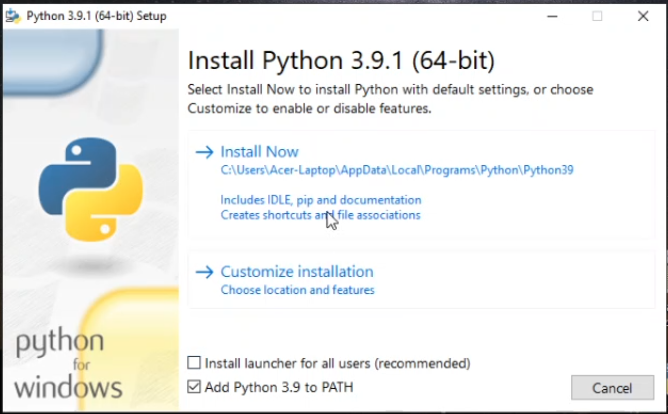
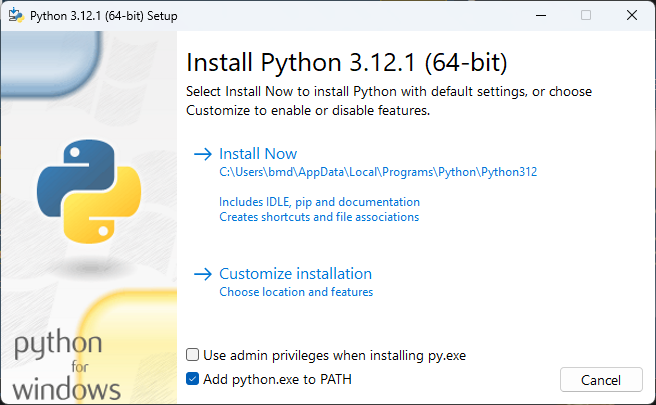
Update new screenshot for installing Python

diff --git a/README.md b/README.md
@@ -106,7 +106,7 @@ On eBay, Shopee and similar online shopping platforms, you'll see hundreds of li
 - Brand-new KaiOS phones, even off the shelf, don't cost less than 2/3 of their retail prices.
 - Do keep in mind that HMD has never sold any of their devices in their KaiOS lineup 2G-only. All KaiOS phones from HMD are equipped with 4G LTE, Wi-Fi and Bluetooth. KaiOS devices are required to have 3G at minimum.
 - If the seller only uploaded generic photos showing the phone's exterior, ask for additional photos of the box that it came in. A genuine phone's box would show all its features on fine print, as well as an information sticker that indicates its model number (which matches the device specification table above) and targeted regional market.
-  - Check the printed model number on the packaging box with that on another information sticker under the back of the phone, and when dialing `*#0000#` in the operating system.
+	- Check the printed model number on the packaging box with that on another information sticker under the back of the phone, and when dialing `*#0000#` in the operating system.
 - Look for signs of the phone running KaiOS and not MRE: KaiOS uses the distinct [Open Sans] UI font and vibrant, properly aligned UI elements. KaiStore and related services should be available at all time. It does not natively run Opera Mini 4.4 or other Java/MRE apps.
 
 ### About Kosher phones
@@ -122,7 +122,7 @@ Kosher is indeed a great way to make your phone truly basic, but HMD already off
 *Photo provided by nuxx on r/KaiOS Discord server in October 2021.*
 
 <p align="center">
-  <img alt="A Kosher-customized Nokia 8000 4G with no Browser, KaiStore or third-party apps shown in 3-by-3 grid of apps. Center D-Pad key is engraved with a Hebrew symbol indicating Kosher phone" src="img/kosher-sparkler.jpg" width="400">
+	<img alt="A Kosher-customized Nokia 8000 4G with no Browser, KaiStore or third-party apps shown in 3-by-3 grid of apps. Center D-Pad key is engraved with a Hebrew symbol indicating Kosher phone" src="img/kosher-sparkler.jpg" width="400">
 </p>
 
 ## Differences between US and international variants
@@ -137,24 +137,24 @@ Don't buy the US variant of 6300 4G unless you know what you're doing. Seek the 
 - You can capture a screenshot by pressing both * and # keys at the same time.
 - You don’t need a KaiOS account to use your phone or download apps from KaiStore, but you can create one in Settings, Accounts if you want to use Anti-Theft features.
 - To stop getting ad notifications from KaiStore, go to *Settings → Personalization → Notices → App notices → Store* and turn off *Allow Notices*. Then go to *Store → Options → Settings & Account → Show rich content* and select *Do not show*.
-    - To block KaiAds altogether, add `ssp.kaiads.com` in your Wi-Fi routers' blacklist or [the system's `hosts` file]. Be aware that this might prevent you from installing apps from KaiStore like WhatsApp.
+		- To block KaiAds altogether, add `ssp.kaiads.com` in your Wi-Fi routers' blacklist or [the system's `hosts` file]. Be aware that this might prevent you from installing apps from KaiStore like WhatsApp.
 - Speed Dial lets you call a contact quickly by pressing and holding a number key from 2 to 9 on the homescreen. To assign a contact to a number key, press and hold an empty key on the homescreen or go to *Contacts → Options → Settings → Set Speed Dial Contacts*. You can also change your voicemail number in the same menu.
-    - *ICE (In Case of Emergency) Contacts, however, is an useless feature on this phone, since there's basically no way to activate it. On the 2720 Flip, you could hold or double-press the side button to trigger SOS Call.*
+		- *ICE (In Case of Emergency) Contacts, however, is an useless feature on this phone, since there's basically no way to activate it. On the 2720 Flip, you could hold or double-press the side button to trigger SOS Call.*
 - You can use a GIF as your homescreen wallpaper, but it will drain your battery faster.
 - If you prefer a different layout than the default 3-by-3 grid view, you can choose *Options → List view/Single view* and rearrange the items as you like.
 - This phone has a hidden screen reader feature that might not work well with some third-party apps that have unlabeled buttons. To turn on the hidden Readout feature, open Browser, go to cyan-2048.github.io/kaios_scripts, use D-Pad to move the cursor and select *Screen Reader*.
 - There's also a hidden call recording feature that has been made available on KaiOS 2.5.2 and later. To toggle, connect the phone to a WebIDE session (see [Sideloading and debugging third-party applications]), then open *Device Settings* in the right sidebar, search for `callrecording.mode` and set it to either `on` (press D-Pad Left to record), `auto` or `off`.
-    - Alternatively you can sideload [CrossTweak] and press 3 to toggle call recording.
+		- Alternatively you can sideload [CrossTweak] and press 3 to toggle call recording.
 
 ## Known issues
 - The multiple clips holding the back panel can be stressed and quickly broken. Speaker is decent, but muffled on strong bass. *For tactile responses on keypad presses, turn on Keypad vibration under Settings → Device → Accessibility.*
-    - *Note that phone shutting itself down or not receiving any charges often come down to loose or dirty battery connectors or charging port and not software problem. Happened to me once, got the phone checked and repaired for less than $10.*
+		- *Note that phone shutting itself down or not receiving any charges often come down to loose or dirty battery connectors or charging port and not software problem. Happened to me once, got the phone checked and repaired for less than $10.*
 - **[MAJOR]** Battery can drain heavily (from 5–7 days of 4G standby to 18 hours, or 2 hours in active usage) if you leave Wi-Fi or mobile data on at all time, e.g. to be immediately notified of incoming WhatsApp messages. It's better to turn them off if you don't plan to use Internet connection, and only turn them on periodically to check for notifications.
 - **[MAJOR]** Keypad frequently registering multiple or no keystrokes instead of a single-press, because of keypad design and keypress timeout interval being too short in `keyboard.gaiamobile.org`. [BananaHackers' guide on fixing the keypad speed] may help
 - **[MAJOR]** A-GPS failing to lock your current position on 4G LTE, possibly due to interferences with TDD bands ⇒ workaround: change your A-GPS APN settings under *Settings → Mobile network & data → APN settings* or switch to 2G/3G for the phone to retrieve GPS information properly (*Settings → Mobile network & data → Carrier - SIMx → Network type → 3G/2G*). Might be major issue for those in the US where 2G/3G has been shut down.
 - **[MAJOR]** B2G takes up large chunk of memory, and RAM optimizations leading to the phone joining Doze deep sleep immediately and aggressive task killing after a few minutes, making opening or exiting apps horribly slow, and notifications—including incoming WhatsApp calls—being delayed.
-    - Wi-Fi hotspot feature will stop transmitting data packets with your other devices when you put the phone into sleep. *As a workaround, you can have [a playlist of silent MP3s played in background] to prevent the phone from Doze sleep.*
-    - *This can be permanently mitigated by modifying scripts in /boot to disable the Low Memory Killer module, which I'll mention in [Manual patching with Android Image Kitchen] below.*
+		- Wi-Fi hotspot feature will stop transmitting data packets with your other devices when you put the phone into sleep. *As a workaround, you can have [a playlist of silent MP3s played in background] to prevent the phone from Doze sleep.*
+		- *This can be permanently mitigated by modifying scripts in /boot to disable the Low Memory Killer module, which I'll mention in [Manual patching with Android Image Kitchen] below.*
 - On certain network providers where this phone isn't yet certified, such as Jio Reliance in India, you may [temporarily mute yourself on phone calls with VoLTE/VoWiFi enabled]. Putting yourself on hold and off does ease the problem.
 - Normally, you can wake up the phone from sleep by either pressing the Power, Volume up or Volume down buttons, regardless of whether keyguard is in place or not. On this phone there are no volume buttons, but some of their functions, such as triggering boot modes or waking the phone up, are mapped to * and # keys respectively. This can be problematic as those keys are located close to the bottom edge of the phone and can be randomly mashed if you store the phone in your front pockets, leading to [unintended screenshots].
 - If you forgot your lockscreen passcode (not SIM or Anti-Theft ones), you can [bypass it] by holding down the top Power button, then select *Memory Cleaner → Deep Memory Cleaning*.
@@ -162,31 +162,31 @@ Don't buy the US variant of 6300 4G unless you know what you're doing. Seek the 
 
 ### KaiOS-specific
 - If you're setting up the phone for the first time with no SIM card, pre-installed apps such as WhatsApp, Facebook and Google apps may not appear in the app list or in KaiStore. After popping in a SIM, those apps will show up as normal.
-    - *KaiStore will show up in all circumstances, regardless of whether there's a SIM card inserted or not.*
+		- *KaiStore will show up in all circumstances, regardless of whether there's a SIM card inserted or not.*
 - This phone runs KaiOS 2.5, which itself is based on Gecko 48 from 2016, meaning without optimizations and new web technologies, some websites like Instagram and Uber just fall apart and the overall performance is unbearable.
-    - No built-in Widevine DRM decoders, which means the phone is NOT capable of playing DRM-protected content from e.g. Spotify
+		- No built-in Widevine DRM decoders, which means the phone is NOT capable of playing DRM-protected content from e.g. Spotify
 - **[MAJOR]** Some built-in apps, such as Call logs, Contacts or Music, are written in a way that is performance-intensive and not optimized for the phone, causing slow rendering and system lags if you store a large number of contacts (technically infinite but 100 recommended), call logs (max 40), music files or other items in a list.
-    - *Performance issues has been addressed on later versions, for now you should opt for alternatives such as [arma7x's K-Music] in KaiStore if possible.*
+		- *Performance issues has been addressed on later versions, for now you should opt for alternatives such as [arma7x's K-Music] in KaiStore if possible.*
 - **[MAJOR]** Sending text messages don't automatically convert to MMS in group chats. You'll have to add a message subject or file attachment before sending to manually do so, otherwise your message will be sent separately to each individual in the thread. Receiving works flawlessly. *Group messaging over MMS has been properly implemented as a feature on later versions.*
 - **[MAJOR]** Alarms can be delayed, unable to go off or go off unexpectedly if the Clock app is killed. Before going to sleep, make sure to open the Clock app and lock the phone without pressing the End call key or closing the app.
 - Predictive typing mode doesn't last between inputs, meaning if you switch between input boxes, it'll return to the normal T9 mode.
 - Photos larger than 6000-by-4000 in size aren't viewable in the Gallery app due to restrictions in place preventing memory constraints. As a workaround, you can download [FabianOvrWrt's Explorer] and [mochaSoft Aps' Photo Zoom] from KaiStore to view them instead.
 - Built-in File Manager app doesn't show folders in the internal storage other than pre-configured ones (audio, music, photos, books, videos, DCIM, downloads, others). This is [hardcoded within its code] as a measure to hide system files (such as DIC files for storing added T9 words), but can be easily misused. *To fully browse the internal storage, use third-party file managers from KaiStore, or turn on Settings → Storage → USB Storage and connect your phone to a computer.*
 - Built-in email, calendar and contact syncing function with Google account may completely fail at times. Use IMAP and import contacts instead.
-    - In December 2021, in order to [replace the expired Let's Encrypt root certificate DST Root CA X3 with the newer ISRG Root X1], KaiOS Technologies issued a Service Update over KaiStore to all active KaiOS devices. This caused the Contacts app on various phones, notably HMD/Nokia KaiOS phones and Alcatel MyFlip 2, to [freeze on open]. In some reported cases, apps such as E-Mail, Calendar and Settings failed to work as well, and Google accounts set up in the Settings app couldn't be removed. This was later classified as a bug of Google account syncing feature, and affected people were advised to wipe their devices as a fix.
-    - T9 search in Contacts app is missing. For those missing the feature, there's a port called [FastContact] by Luxferre that you can sideload to use as an alternative.
-    - E-Mail app lacks many crucial enterprise features, such as OAuth2 secure sign-in.
-    - Speaking of built-in Calendar app, if you manage to opt for syncing your Google account with the phone, only the calendar *with your email address as its name* will sync.
+		- In December 2021, in order to [replace the expired Let's Encrypt root certificate DST Root CA X3 with the newer ISRG Root X1], KaiOS Technologies issued a Service Update over KaiStore to all active KaiOS devices. This caused the Contacts app on various phones, notably HMD/Nokia KaiOS phones and Alcatel MyFlip 2, to [freeze on open]. In some reported cases, apps such as E-Mail, Calendar and Settings failed to work as well, and Google accounts set up in the Settings app couldn't be removed. This was later classified as a bug of Google account syncing feature, and affected people were advised to wipe their devices as a fix.
+		- T9 search in Contacts app is missing. For those missing the feature, there's a port called [FastContact] by Luxferre that you can sideload to use as an alternative.
+		- E-Mail app lacks many crucial enterprise features, such as OAuth2 secure sign-in.
+		- Speaking of built-in Calendar app, if you manage to opt for syncing your Google account with the phone, only the calendar *with your email address as its name* will sync.
 - You cannot change message notification tone or alarm tone on the phone outside the defaults provided. This is because both are not managed by the system, but by the Messages and Clock app themselves.
-    - To change them, you'll have to use ADB to pull `sms.gaiamobile.org` and `clock.gaiamobile.org` from `/system/b2g/webapps`, extract, edit the audio files and repackage the apps, then push them back under `/data/local/webapps` and edit the `basePath` in `/data/local/webapps/webapps.json` to reflect the change (see [BananaHackers' guide] for instructions)
+		- To change them, you'll have to use ADB to pull `sms.gaiamobile.org` and `clock.gaiamobile.org` from `/system/b2g/webapps`, extract, edit the audio files and repackage the apps, then push them back under `/data/local/webapps` and edit the `basePath` in `/data/local/webapps/webapps.json` to reflect the change (see [BananaHackers' guide] for instructions)
 - D-Pad shortcuts and app shortcuts in the carousel menu (when you press Left on the home screen) are not customizable. *The former has been addressed on later versions*, but to change them on this phone you'll have to edit `launcher.gaiamobile.org`.
 
 ### WhatsApp-specific
 - (mostly 2720 Flip) Upon getting the confirmation code needed to set up WhatsApp, you may be indefinitely stuck at Connecting WhatsApp... regardless of whether you're on Wi-Fi/mobile data or had a SIM in. Some suggested that leftover pre-configuration files seem to have caused the issue and, in most cases, can be fixed with a factory reset.
-    - *[Temporarily putting your SIM in another phone to receive the code] may help as well.*
+		- *[Temporarily putting your SIM in another phone to receive the code] may help as well.*
 - 8MB download/5MB upload limit: This is to avoid 'out of memory' errors with the nature of WhatsApp's end-to-end encryption. All things sent through the app's servers—including photos and videos—are encrypted on device. Decrypt them bit-by-bit would use too much memory for KaiOS devices, having only as much as 512MB of RAM.
 - Pairing account with the WhatsApp Web interface or desktop applications is NOT possible. This is because KaiOS cannot hold background processes or handle battery life well enough to sync decryption keys and mirrors messages & calls from the phone.
-    - Note that you cannot sign into another device, pair with WhatsApp Web and then sign into WhatsApp on KaiOS. This will cause the decryption keys to be renewed and all other devices to be logged off automatically.
+		- Note that you cannot sign into another device, pair with WhatsApp Web and then sign into WhatsApp on KaiOS. This will cause the decryption keys to be renewed and all other devices to be logged off automatically.
 
 ## Secret codes
 *Tip: You can save these codes as contacts for quick dialing later. When the phone suggests a saved code, you'll have to press Call to activate the code's function.*
@@ -197,7 +197,7 @@ Don't buy the US variant of 6300 4G unless you know what you're doing. Seek the 
 - `*#33#` (call): Check the [Call barring] service status from carrier for blocking or whitelisting calls, whether incoming or outgoing, domestic or international. Requires a 4-digit passcode to use. To toggle, go to *Settings → Network & Connectivity → Calling → Call barring*.
 - `*#43#` (call): Check the [Call waiting] service status from carrier. To toggle, go to *Settings → Network & Connectivity → Calling → Call waiting*.
 - `*#*#372733#*#*`: Open KaiOS MMI Test, an internal tool to test hardware performance of a KaiOS device through an automatic routine or manually by hand, including LCD backlight, T9 keyboard, camera, LED flash, RTC, speaker, microphone, vibrator, 3.5mm audio jack, SIM trays, Wi-Fi, Bluetooth, NFC, microSD and microUSB slots etc.
-    - Throughout the manual speaker test, you'll hear some English and Chinese dialog from a female speaker, which transcribes to: *Hello. Please dial 110 for police, 119 for fire, 120 for ambulance, 122 for traffic accidents, and dial area code before 112 for six full obstacles.* [?]
+		- Throughout the manual speaker test, you'll hear some English and Chinese dialog from a female speaker, which transcribes to: *Hello. Please dial 110 for police, 119 for fire, 120 for ambulance, 122 for traffic accidents, and dial area code before 112 for six full obstacles.* [?]
 
 ### Codes that don't work
 Most of these codes requires `userdebug` or `eng` versions to work.
@@ -219,7 +219,7 @@ Most of these codes requires `userdebug` or `eng` versions to work.
 - **EDL mode**: With the device powered off, hold the top Power button and both the * and # keys, or type `adb reboot edl` when connected to a computer. Boots into a black screen, allows you to read and write partitions in low-level with proprietary Qualcomm tools. Remove the battery to exit.
 
 <details markdown="block">
-  <summary>What the heck is EDL mode?</summary>
+	<summary>What the heck is EDL mode?</summary>
 <hr style="font-family:monospace;">
 
 **Qualcomm Emergency Download mode**, commonly known as EDL mode, is a special engineering interface implemented on devices with Qualcomm chipsets. It lets you do special operations on the phone that only the device manufacturer can do, such as unlocking the bootloader, read and write firmwares on the phone's filesystem or recover from being a dead paperweight. Unlike bootloader or Fastboot mode, system files needed by the EDL mode resides on a separate 'primary bootloader' that aren't affected by software modifications.[^2]
@@ -236,7 +236,7 @@ EDL programmer for the international version of this phone (not TA-1324) can be 
 [As discovered by atipls on Discord], on the mainboard of the 6300 4G, there are 3 UART testing points: TX, RX and GND just above the SIM2 slot. Shorting TX and GND takes you to Fastboot and Linux terminal interface.
 
 <p align="center">
-  <img alt="Mainboard of a TA-1307 Nokia 6300 4G, with the red arrow pointing to three gold contacts in the middle of the board, those being the UART testpoints in the order of TX, RX and ground" src="img/testpoint.png">
+	<img alt="Mainboard of a TA-1307 Nokia 6300 4G, with the red arrow pointing to three gold contacts in the middle of the board, those being the UART testpoints in the order of TX, RX and ground" src="img/testpoint.png">
 </p>
 
 ## Sideloading and debugging third-party applications
@@ -264,12 +264,12 @@ The guide below is based on the main guide from BananaHackers website, but has b
 > [Murphy's Law] states, "Anything that can go wrong, will go wrong". It's a proverb from the late 1940s, and while it may not be as academically accurate and influential as [Newton's laws of motion], it's generally acknowledged in technology as a rule of thumb. Even if you do the best you can, things can unexpectedly go south, so it's always good to prepare for the worst.
 
 - To export your contacts from the built-in Contacts app, go to *Contacts → Options → Settings → Export contacts*. From there, choose to either save to a CSV file on your SD card, send through Bluetooth to other devices, or upload to Web services such as Google Contacts and Microsoft Outlook.
-    - You can also use third-party backup services and tools such as [PhoneCopy in KaiStore] or D3SXX's [kaios-backup] etc.
+		- You can also use third-party backup services and tools such as [PhoneCopy in KaiStore] or D3SXX's [kaios-backup] etc.
 - On debug-enabled devices, you can sideload `certified` apps such as D3SXX's [kaios-backup] or Fiachra1993's [kaios-sms-backup], which uses Firefox OS APIs to export your text messages to JSON or CSV files.
 - Built-in Calendar app allows syncing events through Google, ActiveSync or CalDAV accounts. If you only have a small number of events, you can migrate each of those to your online calendars. strukturart's [greg] also allows syncing events with Nextcloud.
 - Each entry in the Notes app can be shared over texts, Bluetooth or email.
 - On internal storage or SD card (whichever you chose under *Settings → Storage → Default media location*), captured photos and videos are stored under `DCIM`; whereas recorded voice files are stored under `audio`.
-    - To get your phone to show up on the computer as external storage, turn on *USB Storage* under *Settings
+		- To get your phone to show up on the computer as external storage, turn on *USB Storage* under *Settings
 
 For backing up application data (excluding WhatsApp chats), system preferences and partition images, see [Backup].
 
@@ -280,20 +280,20 @@ For backing up application data (excluding WhatsApp chats), system preferences a
 - EDL utility to read and write system partitions: [bkerler's edl.py v3.1] for 8000 4G/6300 4G, [andybalholm's edl] for 2720 Flip/800 Tough/Go Flip 3;
 - required for 6300 4G/8000 4G: [Gerda Recovery image file] ([backup]) for the Nokia 8110 4G, since the firehose loader above has a reading bug, we'll use this to access ADB from Recovery mode and get the boot partition from there;
 - Python and `pip` for `edl.py` to work (setup guide can be found for each OS below);
-    - Don't have an Internet connection? Download and install manually from PyPI: [pyusb], [pyserial], [keystone-engine], [capstone], [docopt]
+		- Don't have an Internet connection? Download and install manually from PyPI: [pyusb], [pyserial], [keystone-engine], [capstone], [docopt]
 - [Android Debug Bridge (ADB)] to read the boot image in Gerda Recovery (see [Sideloading and debugging/WebIDE])
 - Windows: Qualcomm driver to contact the phone in EDL mode (included in the `edl.py` package)
 - Windows: latest version of [Zadig] to configure `libusb-win32` driver; do NOT use the older version bundled as it has less chances of success
 - macOS: [Homebrew] to quickly set up Python, ADB, `libusb` and configure the environment for EDL tools (setup guide can be found below)
-    - *Python 2.7 bundled with macOS 10.8 to 12 is NOT recommended for following this guide.*
+		- *Python 2.7 bundled with macOS 10.8 to 12 is NOT recommended for following this guide.*
 - **If you're going the automatic boot partition patching and compilation via Docker route (only recommended for 5-6 year old computers):**
-    - [Git] to clone/download the repository of the patcher tool to your computer;
-    - Docker Compose to provide the environment for the patcher tool to work (included in [Docker Desktop])
-    - Windows: WSL2 with [Linux kernel update package] installed (to install WSL2, turn on Virtualization in BIOS, then open Command Prompt with administrative rights and type `wsl --install`)
+		- [Git] to clone/download the repository of the patcher tool to your computer;
+		- Docker Compose to provide the environment for the patcher tool to work (included in [Docker Desktop])
+		- Windows: WSL2 with [Linux kernel update package] installed (to install WSL2, turn on Virtualization in BIOS, then open Command Prompt with administrative rights and type `wsl --install`)
 - **If you're going the extracting and manual editing by hand route:**
-    - Android Image Kitchen v3.8 ([Windows], [macOS/Linux])
-    - on Windows 10 pre-1809: [Notepad++] to edit files while [preserving line endings]
-    - (optional) [Java Runtime Environment] to properly sign the boot image with AVBv1
+		- Android Image Kitchen v3.8 ([Windows], [macOS/Linux])
+		- on Windows 10 pre-1809: [Notepad++] to edit files while [preserving line endings]
+		- (optional) [Java Runtime Environment] to properly sign the boot image with AVBv1
 
 andybalholm's EDL cannot be used on 8000 4G and 6300 4G due to structural changes within GPT, which will result in an error `AttributeError: 'gpt' object has no attribute 'partentries'. Did you mean: 'num_part_entries'?`. **Do note that the command structures used between bkerler's and andybalholm's are different, which we'll mention below.**
 
@@ -314,8 +314,8 @@ sudo apt-get install python pip3
 sudo -H pip3 install pyusb pyserial capstone keystone-engine docopt
 ```
 3. Switch your phone to EDL mode and connect it to your computer. Either:
-  - if your phone is on, turn on debugging mode on your phone by dialing `*#*#33284#*#*`, connect it to your computer and type `adb reboot edl` in a command-line window.
-  - if your phone is off, hold down `*` and `#` at the same time while inserting the USB cable to the phone.
+	- if your phone is on, turn on debugging mode on your phone by dialing `*#*#33284#*#*`, connect it to your computer and type `adb reboot edl` in a command-line window.
+	- if your phone is off, hold down `*` and `#` at the same time while inserting the USB cable to the phone.
 
 In both cases, the phone's screen should blink with a 'enabled by KaiOS' logo then become blank. This is normal behaviour letting you know you're in EDL mode and you can proceed.
 
@@ -331,8 +331,8 @@ Additionally, if you have issue with device access:
 brew install python android-platform-tools libusb && pip3 install pyusb pyserial capstone keystone-engine docopt
 ```
 3. Switch your phone to EDL mode and connect it to your computer. Either:
-  - if your phone is on, turn on debugging mode on your phone by dialing `*#*#33284#*#*`, connect it to your computer and type `adb reboot edl` in a command-line window.
-  - if your phone is off, hold down `*` and `#` at the same time while inserting the USB cable to the phone.
+	- if your phone is on, turn on debugging mode on your phone by dialing `*#*#33284#*#*`, connect it to your computer and type `adb reboot edl` in a command-line window.
+	- if your phone is off, hold down `*` and `#` at the same time while inserting the USB cable to the phone.
 
 In both cases, the phone's screen should blink with a 'enabled by KaiOS' logo then become blank. This is normal behaviour letting you know you're in EDL mode and you can proceed.
 
@@ -340,13 +340,16 @@ In both cases, the phone's screen should blink with a 'enabled by KaiOS' logo th
 1. Head over to [Python's official download page for Windows] and download the correct installer for your architecture, or download the latest version of Python from [Microsoft Store]. If you're downloading from Microsoft Store, skip to step 4.
 
 2. Proceed with installing Python as usual. If you choose to customize your installation, include `pip`. Don't forget to tick the box next to "Add Python to PATH" to add Python as a global [environment variable], otherwise you'll have a hard time using Python to run scripts later on.
+	- If you decide to customize your installation, choose to install `pip` and tick *Add Python to environment variables*.
 
-![Screenshot of an installation window for Python 3.9 showing two options, 'Install Now' and 'Customize installation', with the checkbox for 'Add Python 3.9 to PATH' being selected](img/python.png)
+<p align="center">
+	<img alt="Screenshot of an installation window for Python 3.9 showing two options, 'Install Now' and 'Customize installation', with the checkbox for 'Add Python 3.9 to PATH' being selected" src="img/python.png">
+</p>
 
 3. On Windows 10/11, typing `python` or `python3` within Command Prompt/Windows Terminal will run the Microsoft Store version of Python. To override this default into running the locally installed version, toggle off App Installer (python.exe) and App Installer (python3.exe) under:
 {:start="3"}
-  - Windows 10: Settings → Apps → [Apps & features] → App execution aliases
-  - Windows 11: Settings → Apps → Advanced app settings → App execution aliases
+	- Windows 10: Settings → Apps → [Apps & features] → App execution aliases
+	- Windows 11: Settings → Apps → Advanced app settings → App execution aliases
 
 <img alt="Demostration of Settings app on Windows 11. User is already on Apps page and clicking on Advanced app settings. User then clicks on App execution aliases, where the toggles for App Installer (python.exe) and App Installer (python3.exe) are turned off. Description says Apps can declare a name used to run the app from a command prompt. If multiple apps use the same name, choose which one to use." src="img/settings-alias-off.gif">
 
@@ -363,13 +366,13 @@ pip3 install pyusb pyserial capstone keystone-engine docopt
 {:start="5"}
 
 <p align="center">
-  <img alt="Screenshot of an installation window for Qualcomm's diagnostic driver, in which two radio buttons are shown labelled 'WWAN-DHCP is not used to get IPAddress' and 'ETHERNET-DHCP is used to get IPAddress' respectively. The first button is selected." src="img/whatever.png">
+	<img alt="Screenshot of an installation window for Qualcomm's diagnostic driver, in which two radio buttons are shown labelled 'WWAN-DHCP is not used to get IPAddress' and 'ETHERNET-DHCP is used to get IPAddress' respectively. The first button is selected." src="img/whatever.png">
 </p>
 
 6. Switch your phone to EDL mode and connect it to your computer. Either:
 {:start="6"}
-  - if your phone is on, turn on debugging mode on your phone by dialing `*#*#33284#*#*`, connect it to your computer and type `adb reboot edl` in a command-line window.
-  - if your phone is off, hold down `*` and `#` at the same time while inserting the USB cable to the phone.
+	- if your phone is on, turn on debugging mode on your phone by dialing `*#*#33284#*#*`, connect it to your computer and type `adb reboot edl` in a command-line window.
+	- if your phone is off, hold down `*` and `#` at the same time while inserting the USB cable to the phone.
 
 In both cases, the phone's screen should blink with an 'enabled by KaiOS' logo then become blank. This is normal behaviour letting you know you're in EDL mode and you can proceed.
 
@@ -377,7 +380,7 @@ In both cases, the phone's screen should blink with an 'enabled by KaiOS' logo t
 {:start="7"}
 
 <p align="center">
-  <img src="img/qhsusb-zadig.gif" alt="9-frame GIF demostrating Zadig's main interface, List All Devices option being selected from Option menu, QHSUSB_BULK being selected from the main dropdown list, followed by the second label box on the Drivers line, to which the green arrow points, changed to 'libusb-win32 (v1.2.6.0)'. Two smaller up/down arrows are right next to that box.">
+	<img src="img/qhsusb-zadig.gif" alt="9-frame GIF demostrating Zadig's main interface, List All Devices option being selected from Option menu, QHSUSB_BULK being selected from the main dropdown list, followed by the second label box on the Drivers line, to which the green arrow points, changed to 'libusb-win32 (v1.2.6.0)'. Two smaller up/down arrows are right next to that box.">
 </p>
 
 > [!NOTE]
@@ -425,8 +428,8 @@ You can disconnect the phone from your computer for now.
 Unlike the 6300 4G and 8000 4G, our phones' EDL loader properly works with both reading and writing, so the steps are more straightforward.
 
 1. Switch your phone to EDL mode and connect it to your computer. Either:
-  - if your phone is on, turn on debugging mode on your phone by dialing `*#*#33284#*#*`, connect it to your computer and type `adb reboot edl` in a command-line window.
-  - if your phone is off, hold down both side volume keys (2720 Flip) or both D-Pad Up and Down keys (800 Tough) at the same time while inserting the USB cable to the phone.
+	- if your phone is on, turn on debugging mode on your phone by dialing `*#*#33284#*#*`, connect it to your computer and type `adb reboot edl` in a command-line window.
+	- if your phone is off, hold down both side volume keys (2720 Flip) or both D-Pad Up and Down keys (800 Tough) at the same time while inserting the USB cable to the phone.
 
 In both cases, the phone's screen should blink with a 'Powered by KaiOS' logo then become blank. This is normal behaviour letting you know you're in EDL mode and you can proceed.
 
@@ -469,8 +472,8 @@ git clone https://gitlab.com/suborg/8k-boot-patcher.git && cd 8k-boot-patcher &&
 
 3. Copy the `boot.img` file we've just pulled from our phone to the desktop and do not change its name. Type this into Command Prompt/Terminal to run the patching process:
 {:start="3"}
-  - Windows: `docker run --rm -it -v %cd%/Desktop:/image 8kbootpatcher`
-  - macOS/Linux: `docker run --rm -it -v ~/Desktop:/image 8kbootpatcher`
+	- Windows: `docker run --rm -it -v %cd%/Desktop:/image 8kbootpatcher`
+	- macOS/Linux: `docker run --rm -it -v ~/Desktop:/image 8kbootpatcher`
 
 ```
 $ docker run --rm -it -v ~/Desktop:/image 8kbootpatcher
@@ -511,27 +514,27 @@ That's it! On your desktop there will be two new image files, the modified `boot
 
 3. Let the editing begin! First, open `ramdisk/default.prop` using Notepad++ and change:
 {:start="3"}
-  - line 7: `ro.secure=1` → `ro.secure=0`
-  - line 8: `security.perf_harden=1` → `security.perf_harden=0`
-  - line 10: `ro.debuggable=0` → `ro.debuggable=1`
+	- line 7: `ro.secure=1` → `ro.secure=0`
+	- line 8: `security.perf_harden=1` → `security.perf_harden=0`
+	- line 10: `ro.debuggable=0` → `ro.debuggable=1`
 
 ```diff
 @@ -4,9 +4,9 @@
-  ro.sw.release.date=21-08-13
-  ro.build.version.fih=20.00.17.01
-  ro.build.elabel=false
+	ro.sw.release.date=21-08-13
+	ro.build.version.fih=20.00.17.01
+	ro.build.elabel=false
 - ro.secure=1
 - security.perf_harden=1
 + ro.secure=0
 + security.perf_harden=0
-  ro.allow.mock.location=0
+	ro.allow.mock.location=0
 - ro.debuggable=0
 + ro.debuggable=1
-  ro.adb.secure=0
-  ro.zygote=zygote32
+	ro.adb.secure=0
+	ro.zygote=zygote32
 ```
 <p align="center">
-  <img src="img/default_prop_edited.png" alt="Screenshot of the modified content of the default.prop file">
+	<img src="img/default_prop_edited.png" alt="Screenshot of the modified content of the default.prop file">
 </p>
 
 4. Open `ramdisk/init.qcom.early_boot.sh` in Notepad++ and add `setenforce 0` as a new line at the end of the file.
@@ -539,23 +542,23 @@ That's it! On your desktop there will be two new image files, the modified `boot
 
 ```diff
 @@ -312,14 +312,14 @@
-  else
-      # nand configuration
-      if [ -e $nand_file ]
-      then
-          if grep ${partition_name} $nand_file
-          then
-             gps_enabled=false
-          fi
-      fi
-  fi
+	else
+			# nand configuration
+			if [ -e $nand_file ]
+			then
+					if grep ${partition_name} $nand_file
+					then
+						 gps_enabled=false
+					fi
+			fi
+	fi
 
-  setprop ro.gps.enabled $gps_enabled
+	setprop ro.gps.enabled $gps_enabled
 + setenforce 0
 
 ```
 <p align="center">
-  <img src="img/setenforce.png" alt="Screenshot of the modified content of the init.qcom.early_boot.sh file">
+	<img src="img/setenforce.png" alt="Screenshot of the modified content of the init.qcom.early_boot.sh file">
 </p>
 
 5. Go back to the root Android Image Kitchen folder and open `split_img/boot.img-cmdline` in Notepad++. Without adding a new line, scroll to the end of the first line and append `androidboot.selinux=permissive enforcing=0`.
@@ -576,24 +579,24 @@ Indent the new line to match up with other lines as shown.
 
 ```diff
 @@ -390,7 +390,6 @@
-  setusercryptopolicies /data/user
+	setusercryptopolicies /data/user
 
-  # Reload policy from /data/security if present.
+	# Reload policy from /data/security if present.
 - setprop selinux.reload_policy 1
 
-  # Set SELinux security contexts on upgrade or policy update.
-  restorecon_recursive /data
+	# Set SELinux security contexts on upgrade or policy update.
+	restorecon_recursive /data
 @@ -418,9 +418,10 @@
-  # Memory management.  Basic kernel parameters, and allow the high
-  # level system server to be able to adjust the kernel OOM driver
-  # parameters to match how it is managing things.
+	# Memory management.  Basic kernel parameters, and allow the high
+	# level system server to be able to adjust the kernel OOM driver
+	# parameters to match how it is managing things.
 + write /sys/module/lowmemorykiller/parameters/enable_lmk 0
-  write /proc/sys/vm/overcommit_memory 1
-  write /proc/sys/vm/min_free_order_shift 4
-  chown root system /sys/module/lowmemorykiller/parameters/adj
-  chmod 0664 /sys/module/lowmemorykiller/parameters/adj
-  chown root system /sys/module/lowmemorykiller/parameters/minfree
-  chmod 0664 /sys/module/lowmemorykiller/parameters/minfree
+	write /proc/sys/vm/overcommit_memory 1
+	write /proc/sys/vm/min_free_order_shift 4
+	chown root system /sys/module/lowmemorykiller/parameters/adj
+	chmod 0664 /sys/module/lowmemorykiller/parameters/adj
+	chown root system /sys/module/lowmemorykiller/parameters/minfree
+	chmod 0664 /sys/module/lowmemorykiller/parameters/minfree
 ```
 ![Screenshot of the modified content of the init.rc file, with line 393 marked as comment which has the same effects as deleting the line altogether, and line 421 added to disable the Low Memory Killer module](img/f5-selinux.png)
 
@@ -787,7 +790,7 @@ python edl.py reset
 [Affe Null's Bananian project repository]: https://git.abscue.de/bananian/bananian
 
 <style>
-  .w { max-width: 1000px; padding: 4rem 1rem }
-  li { margin-left: -0.5rem }
-  body { font-family: system-ui, sans-serif; font-size: 14px }
+	.w { max-width: 1000px; padding: 4rem 1rem }
+	li { margin-left: -0.5rem }
+	body { font-family: system-ui, sans-serif; font-size: 14px }
 </style>
